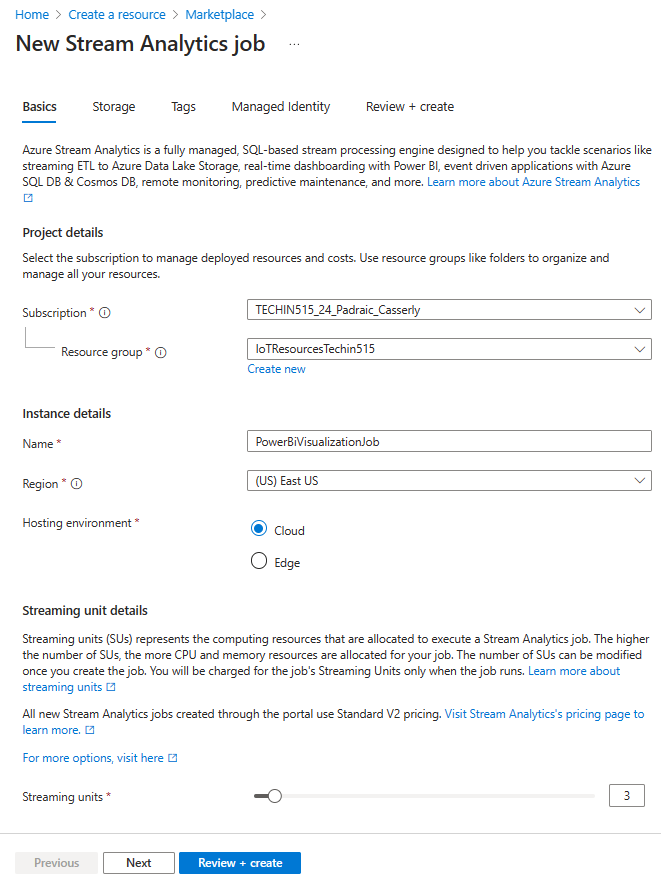
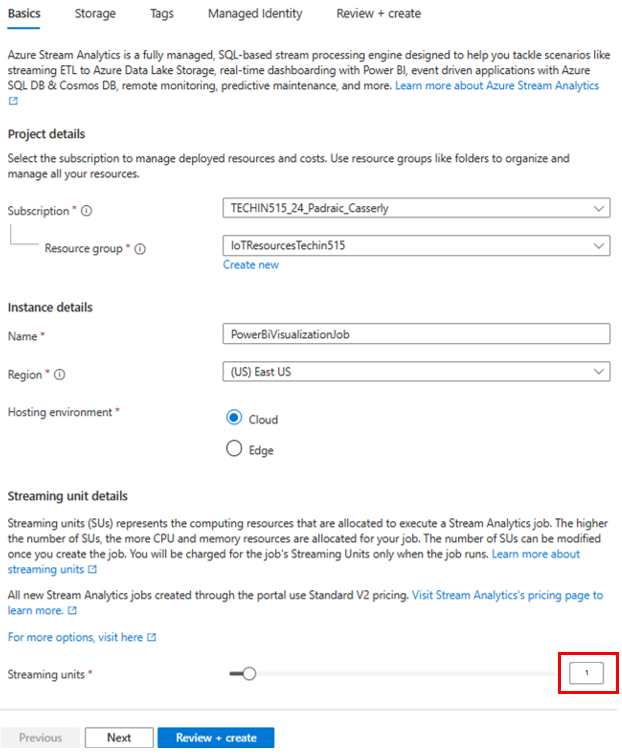
new tutorial

diff --git a/Tutorial - Store real-time sensor data in Azure Blob Storage/Tutorial - Store real-time sensor data in Azure Bl 02d2b60704284e4fb870ee2f9297192b.md b/Tutorial - Store real-time sensor data in Azure Blob Storage/Tutorial - Store real-time sensor data in Azure Bl 02d2b60704284e4fb870ee2f9297192b.md
@@ -1,0 +1,180 @@
+# Tutorial - Store real-time sensor data in Azure Blob Storage
+
+Created by: Padraic
+Created time: May 3, 2024 11:25 AM
+
+Resources: Azure IoT Hub
+
+---
+
+## Additional Learning Resources
+
+Microsoft Learning Resources: [Azure IoT documentation - Azure IoT | Microsoft Learn](https://learn.microsoft.com/en-us/azure/iot/)
+
+YouTube guide: [Getting Started with Microsoft Azure IoT Central using NodeMCU ESP8266 (youtube.com)](https://www.youtube.com/watch?v=jmMWel9Y3Qg)
+
+## Prerequisites
+
+In order to complete this exercise, you must first stream sensor data to Azure IoT Hub.  To stream ultrasonic sensor data to Azure IoT Hub from an ESP32 follow this [tutorial](https://github.com/GIXLabs/TECHIN515_Sp24/tree/main/Tutorial%20-%20ESP32%20and%20Azure%20IoT%20Hub).  To stream ultrasonic sensor data to Azure IoT Hub from a Raspberry Pi follow this [lab](https://github.com/GIXLabs/TECHIN515_Sp24/tree/main/Lab3_CloudIntro). 
+
+## Overview
+
+In this tutorial, you will learn how to send data from Azure IoT Hub to Azure Blob Storage. 
+
+[Azure Blob Storage](https://learn.microsoft.com/en-us/azure/storage/blobs/storage-blobs-introduction) is a service provided by Microsoft to store unstructured data. Unstructured data is a type of data that is not structured; that is, it does not yet exist in database environment combrised of rows in a table, for example.  Users or client applications can access objects in Blob Storage via HTTP/HTTPS, from anywhere in the world. Objects in Blob Storage are accessible via the [Azure Storage REST API](https://learn.microsoft.com/en-us/rest/api/storageservices/blob-service-rest-api), [Azure PowerShell](https://learn.microsoft.com/en-us/powershell/module/az.storage), [Azure CLI](https://learn.microsoft.com/en-us/cli/azure/storage), or an Azure Storage client library. 
+
+![Untitled](Tutorial%20-%20Store%20real-time%20sensor%20data%20in%20Azure%20Bl%2002d2b60704284e4fb870ee2f9297192b/Untitled.png)
+
+Blob Storage offers three types of resources:
+
+- The **storage account**
+- A **container** in the storage account
+- A **blob** in a container
+
+The following diagram shows the relationship between these resources ([image source](https://learn.microsoft.com/en-us/azure/storage/blobs/storage-blobs-introduction)).
+
+![https://learn.microsoft.com/en-us/azure/storage/blobs/media/storage-blobs-introduction/blob1.png](https://learn.microsoft.com/en-us/azure/storage/blobs/media/storage-blobs-introduction/blob1.png)
+
+[Azure Stream Analytics](https://azure.microsoft.com/services/stream-analytics/#overview) is a fully managed, real-time analytics service designed to help you analyze and process fast moving streams of data that can be used to get insights, build reports or trigger alerts and actions. In order to send your sensor data to Azure Blob Storage, you’ll first need to Create a new Stream Analytics job. 
+
+## **A. Create a new consumer group in your IoT hub**
+
+First, navigate to your IoT Hub in your [Azure portal](https://portal.azure.com/), select Built-in Endpoints, and then create a consumer group. In this example, the consumer group has been named, “consumergroup_1”. This consumer group will be called by your Azure Stream Analytics Service. 
+
+![Untitled](Tutorial%20-%20Store%20real-time%20sensor%20data%20in%20Azure%20Bl%2002d2b60704284e4fb870ee2f9297192b/Untitled%201.png)
+
+## **B. Create a Blob Storage Account**
+
+In your Azure portal, navigate to the search feature and search for “storage account.” Select the Service entitled, “Storage accounts.”
+
+![Untitled](Tutorial%20-%20Store%20real-time%20sensor%20data%20in%20Azure%20Bl%2002d2b60704284e4fb870ee2f9297192b/Untitled%202.png)
+
+Then Create a new Storage Account. Give the storage account a name, and then make a redundancy selection with the least amount of cost (locally-redundant storage), and then select *Review + Create*. 
+
+![Untitled](Tutorial%20-%20Store%20real-time%20sensor%20data%20in%20Azure%20Bl%2002d2b60704284e4fb870ee2f9297192b/Untitled%203.png)
+
+The Blob Storage service will take a minute before it is deployed. You can go to the resource to review the parameters of the storage account and [upgrade](https://learn.microsoft.com/en-us/azure/storage/blobs/upgrade-to-data-lake-storage-gen2-how-to?tabs=azure-portal) the account to an [Azure Data Lake Storage (ADLS) Gen 2](https://learn.microsoft.com/en-us/azure/storage/blobs/upgrade-to-data-lake-storage-gen2-how-to?tabs=azure-portal) account, for example. ADLS is a storage service with improved functionality compared to Blob Strorage. 
+
+![Untitled](Tutorial%20-%20Store%20real-time%20sensor%20data%20in%20Azure%20Bl%2002d2b60704284e4fb870ee2f9297192b/Untitled%204.png)
+
+Once you’ve created the Blob Storage Account, then you can select **Containers** under **Data Storage** and then create a new container. You may name this new container anything you like. This container is where your sensor data will be stored. In this example, the name of the container is “distance-container”.
+
+![Untitled](Tutorial%20-%20Store%20real-time%20sensor%20data%20in%20Azure%20Bl%2002d2b60704284e4fb870ee2f9297192b/Untitled%205.png)
+
+## **C. Create a new Stream Analytics job**
+
+Next, we need to Create, configure, and run a Stream Analytics job. Azure Stream Analytics will serve as waypoint to process the data from your IoT Hub and send it to Azure Blob Storage, where your data will be stored. To create a new job, go to the [Azure portal](https://portal.azure.com/) and select **Create a resource**. 
+
+![Untitled](Tutorial%20-%20Store%20real-time%20sensor%20data%20in%20Azure%20Bl%2002d2b60704284e4fb870ee2f9297192b/Untitled%206.png)
+
+Type *Stream Analytics Job* in the search box and select it from the drop-down list. 
+
+![Untitled](Tutorial%20-%20Store%20real-time%20sensor%20data%20in%20Azure%20Bl%2002d2b60704284e4fb870ee2f9297192b/Untitled%207.png)
+
+On the **Stream Analytics job** overview page, select **Create**
+
+![Untitled](Tutorial%20-%20Store%20real-time%20sensor%20data%20in%20Azure%20Bl%2002d2b60704284e4fb870ee2f9297192b/Untitled%208.png)
+
+In the **Basics** tab of the **New Stream Analytics job** page, enter the following information:
+
+| Parameter | Value |
+| --- | --- |
+| Subscription | Select the subscription that contains your IoT hub. |
+| Resource group | Select the resource group that contains your IoT hub. |
+| Name | Enter the name of the job. The name must be globally unique. |
+| Region | Select the region where your IoT hub is located. |
+
+You can change the number of streaming unit details to ‘1’. The name of this Stream Analytics Job has been set to “AzureBlobStorageJob”.
+
+![Untitled](Tutorial%20-%20Store%20real-time%20sensor%20data%20in%20Azure%20Bl%2002d2b60704284e4fb870ee2f9297192b/Untitled%209.png)
+
+Next, click Add storage account, then select the storage account that you ust created. In this example, the name of the storage account is “ultrasonicdata1”. Select Next.
+
+![Untitled](Tutorial%20-%20Store%20real-time%20sensor%20data%20in%20Azure%20Bl%2002d2b60704284e4fb870ee2f9297192b/Untitled%2010.png)
+
+Proceed to **Review + create**, then select **Create** to create the Stream Analytics job. It may take a couple minutes to deploy the new job. 
+
+![Untitled](Tutorial%20-%20Store%20real-time%20sensor%20data%20in%20Azure%20Bl%2002d2b60704284e4fb870ee2f9297192b/Untitled%2011.png)
+
+Once the job is created, select **Go to resource**.
+
+![Untitled](Tutorial%20-%20Store%20real-time%20sensor%20data%20in%20Azure%20Bl%2002d2b60704284e4fb870ee2f9297192b/Untitled%2012.png)
+
+## **C. Add an input to the Stream Analytics job**
+
+The input for your Stream Analytics job will be the data sent to the Azure IoT Hub. The output of this job will be Azure Blob Storage, the tool developed by Microsoft to store data. You will setup the ouput in the next step. 
+
+Configure the Stream Analytics job to collect data from your IoT hub.
+
+1. Open the Stream Analytics job.
+2. Select **Inputs** from the **Job topology** section of the navigation menu.
+3. Select **Add input**, then select **IoT Hub** from the drop-down list.
+
+![Untitled](Tutorial%20-%20Store%20real-time%20sensor%20data%20in%20Azure%20Bl%2002d2b60704284e4fb870ee2f9297192b/Untitled%2013.png)
+
+When the input pops up on the right hand side of the screen, many of the fields will autopopulate, but you can rename your Input alias if you would like. For this lab, the Input alias has been defined as “ultrasonicdata-input”. The consumer group that you just created is “consumergroup_1”. Press Save.
+
+![Untitled](Tutorial%20-%20Store%20real-time%20sensor%20data%20in%20Azure%20Bl%2002d2b60704284e4fb870ee2f9297192b/Untitled%2014.png)
+
+## **D. Add an output to the Stream Analytics job**
+
+1. Select **Outputs** from the **Job simulation** section of the navigation menu.
+2. Select **Add output**, and then select **Blob Storage/ADLS Gen2** from the drop-down list.
+
+![Untitled](Tutorial%20-%20Store%20real-time%20sensor%20data%20in%20Azure%20Bl%2002d2b60704284e4fb870ee2f9297192b/Untitled%2015.png)
+
+1. Create a new Output Alias name. In this example, the name is ultrasonicdata-output. Select the Blob Storage Account you created earlier (ultrasonicdata1) and the Container that you created (distance-container). You can also create a new container. 
+
+![Untitled](Tutorial%20-%20Store%20real-time%20sensor%20data%20in%20Azure%20Bl%2002d2b60704284e4fb870ee2f9297192b/Untitled%2016.png)
+
+Scroll down to select the minimum number of rows that you would like aggregated as a batch before they are appended to your Blob Storage. You can also select the maximum amount of time before batches are appended. In this example, the minimum rows is 20 and the maximum time is 2 minutes. Press Save.
+
+![Untitled](Tutorial%20-%20Store%20real-time%20sensor%20data%20in%20Azure%20Bl%2002d2b60704284e4fb870ee2f9297192b/Untitled%2017.png)
+
+You can then modify what type of sensor data gets stored in your Blob Storage. Sometimes sensors are a bit erratic and return unreliable values which are unreasonably high or unreasonably low. You can filter out these values in the **Query** section of the Stream Analytics job. To do so, select **Query**, then edit the SQL script to your liking. 
+
+![Untitled](Tutorial%20-%20Store%20real-time%20sensor%20data%20in%20Azure%20Bl%2002d2b60704284e4fb870ee2f9297192b/Untitled%2018.png)
+
+Here is a [SQL Basics Cheat Sheet](https://www.datacamp.com/cheat-sheet/sql-basics-cheat-sheet) so that you can further manipulate your data. 
+
+```sql
+/*
+Here are links to help you get started with Stream Analytics Query Language:
+Common query patterns - https://go.microsoft.com/fwLink/?LinkID=619153
+Query language - https://docs.microsoft.com/stream-analytics-query/query-language-elements-azure-stream-analytics
+*/
+SELECT
+    *
+INTO
+    [ultrasonicdata-output]
+FROM
+    [ultrasonicdata-input]
+WHERE distance < 100
+AND distance > 1
+```
+
+In the example above, only data with a distance value of greater than 1 and less than 100 will be stored in the Blob Storage container.  If you have followed the previous tutorial on streaming ultrasonic sensor data from an ESP32 to Azure IoT Hub, then the value 'distance' is sent as a message in the generateTelemetryPayload() function in your Arduino code. 
+
+Next, start the Stream Analytics job that you just created by returning to the Overview pafe and pressing **Start job**. 
+
+![Untitled](Tutorial%20-%20Store%20real-time%20sensor%20data%20in%20Azure%20Bl%2002d2b60704284e4fb870ee2f9297192b/Untitled%2019.png)
+
+## E. Verify that your sensor data is being stored in your Blob Storage Container
+
+In order to very that your sensor data is being stored in your Blob Storage container, return to your Azure Home portal. From your home portal, click on the Storage Account that you created for this exercise (eg. ultrasonicdata1). Next click on **Containers** and then the container you created for this exercise (eg. distance-container). 
+
+![Untitled](Tutorial%20-%20Store%20real-time%20sensor%20data%20in%20Azure%20Bl%2002d2b60704284e4fb870ee2f9297192b/Untitled%2020.png)
+
+Next click on the JSON file. 
+
+![Untitled](Tutorial%20-%20Store%20real-time%20sensor%20data%20in%20Azure%20Bl%2002d2b60704284e4fb870ee2f9297192b/Untitled%2021.png)
+
+Then click on the **Edit** tab to view your data. You can press the refresh button to see when new entries are appended to your JSON file. You will also notice how none of the distance entries that are saved in the JSON file are above 100 or below 1. A URL link to the JSON file can be found in the **Overview** tab. 
+
+![Untitled](Tutorial%20-%20Store%20real-time%20sensor%20data%20in%20Azure%20Bl%2002d2b60704284e4fb870ee2f9297192b/Untitled%2022.png)
+
+## F. Stopping the Stream Analytics Job
+
+At the end of the exercise, return to your Stream Analytics job (eg. AzureBlobStorageJob) from the home page of your Azure portal and click on Stop job. When the job has ended, you won’t be charged any further credits for this exercise. 
+
+![Untitled](Tutorial%20-%20Store%20real-time%20sensor%20data%20in%20Azure%20Bl%2002d2b60704284e4fb870ee2f9297192b/Untitled%2023.png)

diff --git a/Tutorial - Visualize real-time sensor data from Azure IoT Hub using Power BI/Tutorial - Visualize real-time sensor data from Az 4c10c0a06d1a43e28d9f2d2ca44b24fe.md b/Tutorial - Visualize real-time sensor data from Azure IoT Hub using Power BI/Tutorial - Visualize real-time sensor data from Az 4c10c0a06d1a43e28d9f2d2ca44b24fe.md
@@ -2,6 +2,10 @@
 
 Additional Microsoft resource: [Tutorial - IoT data visualization with Power BI - Azure IoT Hub | Microsoft Learn](https://learn.microsoft.com/en-us/azure/iot-hub/iot-hub-live-data-visualization-in-power-bi)
 
+## Prerequisites
+
+In order to complete this exercise, you must first stream sensor data to Azure IoT Hub.  To stream ultrasonic sensor data to Azure IoT Hub from an ESP32 follow this [tutorial](https://github.com/GIXLabs/TECHIN515_Sp24/tree/main/Tutorial%20-%20ESP32%20and%20Azure%20IoT%20Hub).  To stream ultrasonic sensor data to Azure IoT Hub from a Raspberry Pi follow this [lab](https://github.com/GIXLabs/TECHIN515_Sp24/tree/main/Lab3_CloudIntro). 
+
 ## Overview
 
 At the end of this tutorial, you’ll be able to generate a web URL to a visualization of your sensor data as well as generate html code for a graphic which you can paste into your own web application. 
@@ -63,7 +67,7 @@ In the **Basics** tab of the **New Stream Analytics job** page, enter the fo
 | Name | Enter the name of the job. The name must be globally unique. |
 | Region | Select the region where your IoT hub is located. |
 
-Leave all other fields at their defaults.
+You can change the streaming unit details to the value ‘1’ so that you don’t rapidly use up your Azure credits. Leave all other fields at their defaults.
 
 ![Untitled](Tutorial%20-%20Visualize%20real-time%20sensor%20data%20from%20Az%204c10c0a06d1a43e28d9f2d2ca44b24fe/Untitled%2010.png)
 
@@ -141,10 +145,19 @@ Next, we’ll return to our Azure Portal. Our goal in this step is to select whi
 
 1. In the query editor, replace `[YourOutputAlias]` with the output alias of the job. In this example, we named our OutputAlias “PowerBIVisualizationOutput”. See step D above.
 2. Replace `[YourInputAlias]` with the input alias of the job. In this example, we named our OutputAlias “PowerBIVisualizationInput”. See step C above.
-3. Add the following `WHERE` clause as the last line of the query. This line ensures that only messages with a **distance** property will be forwarded to Power BI. 
+3. Add the following `WHERE` clause as the last line of the query. This line ensures that only messages with a **distance** property will be forwarded to Power BI. You can also add other filters to your SQL query in order to filter out errant sensor readings (eg. unreasonably high or low readings). 
 
 ```sql
+SELECT
+    *
+INTO
+    PowerBIVisualizationOutput
+FROM
+    PowerBIVisualizationInput
+
 WHERE distance IS NOT NULL
+AND distance < 100
+AND distance > 1
 ```
 
 The value “distance” is defined in the generateTelemetryPayload() function in your Arduino code (see below). 
@@ -203,3 +216,9 @@ The following steps show you how to create and publish a report using the Power 
 1. Open a web browser and paste the link into the address bar to view your report in the browser.
 
 For additional resources on how to visualize streaming data, visit this [website](https://learn.microsoft.com/en-us/power-bi/connect-data/service-real-time-streaming).
+
+## G. Stopping the Stream Analytics Job
+
+When you are done with the exercise, it’s good practice to stop the Stream Analytics job (PowerBiVisualizationJob) so that you don’t use your Azure credits. To stop the job, navigate to the [home page](https://portal.azure.com/) of your Azure portal, then  and click on Stop job. When the job has ended, you won’t be charged any further credits for this exercise. 
+
+![Untitled](Tutorial%20-%20Visualize%20real-time%20sensor%20data%20from%20Az%204c10c0a06d1a43e28d9f2d2ca44b24fe/Untitled%2025.png)
